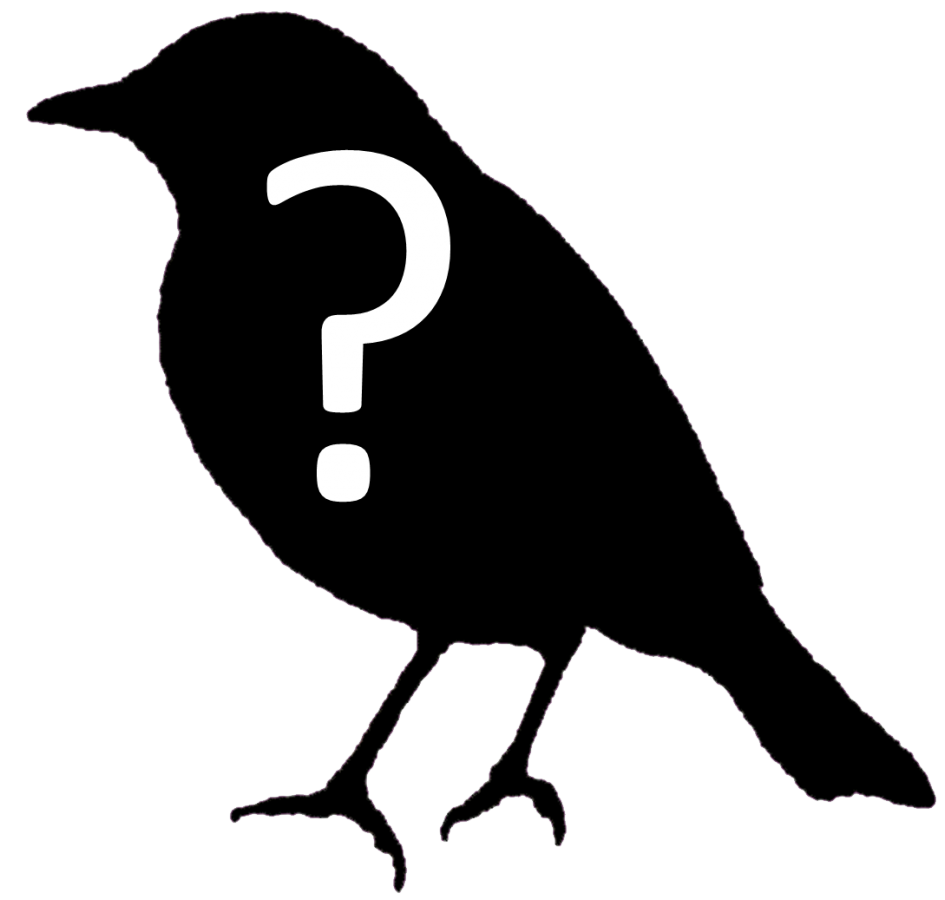
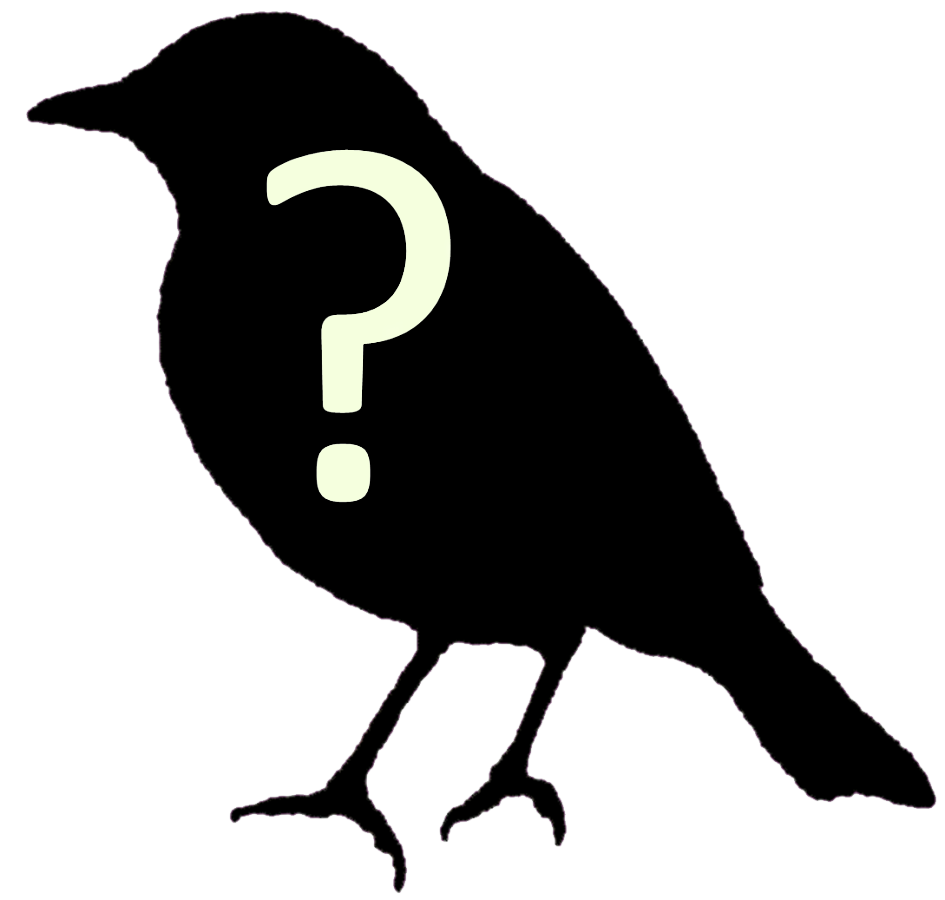
fix: code refactoring

Changed region(s): [[0.2762, 0.1556, 0.491, 0.4667], [0.3376, 0.4978, 0.3989, 0.56]]

diff --git a/src/components/card/card.scss b/src/components/card/card.scss
@@ -1,3 +1,9 @@
+$rhap_theme-color: #a1ad86 !default;
+$rhap_background-color: transparent !default;
+$rhap_bar-color: #a7a7a7 !default;
+$rhap_time-color: #ffffff !default;
+$rhap_font-family: inherit !default;
+
 .card__container {
   width: 100%;
   display: flex;
@@ -14,7 +20,7 @@
 .image__bird {
   width: 150px;
   height: 150px;
-  background-color: #e6e6e6;
+  background-color: #f5ffde;
   border-radius: 10px;
   display: block;
   margin: 10px auto;
@@ -32,8 +38,17 @@
 }
 .card-info__container {
   width: 100%;
-  margin-right: 40px;
+  margin-right: 30px;
 }
+.rhap_main-controls-button {
+  margin: 0 3px;
+  color: $rhap_theme-color;
+  font-size: 35px;
+  width: 35px;
+  height: 35px;
+  outline: none;
+}
+
 .rhap_container {
   background-color: transparent;
   box-shadow: none;
@@ -61,6 +76,9 @@
     margin-right: -41px;
   }
 }
+.rhap_progress-indicator {
+  background-color: #a1ad86;
+}
 .rhap_repeat-button {
   display: none;
 }
@@ -74,6 +92,12 @@
   @media (max-width: 500px) {
     flex-direction: column;
   }
+}
+.rhap_volume-button {
+  color: $rhap_theme-color;
+}
+.rhap_volume-indicator {
+  background-color: $rhap_theme-color;
 }
 .species-of-bird {
   color: white;

diff --git a/src/App.js b/src/App.js
@@ -19,7 +19,6 @@ function App() {
   const [isFinished, setIsFinished] = useState(false);
   const [hideAfterFinish, setHideAfterFinish] = useState(false);
   const [isMaxScore, setIsMaxScore] = useState(false);
-  const [addMargin, setAddMargin] = useState(false);
 
   const handleClickNextLevel = () => {
     if (isFinished) {
@@ -27,7 +26,6 @@ function App() {
         setLevel((prevState) => prevState + 1);
         setIsFinished(false);
         setClickedBird(null);
-        setAddMargin(false);
         setScore((prevState) => {
           if (attempts < 5) {
             return prevState + 5 - attempts;
@@ -61,7 +59,6 @@ function App() {
     setScore(0);
     setAttempts(0);
   };
-  console.log("app changed");
 
   useEffect(() => {
     const dataForCurrentLevel = birdsData.filter((el) => el.id === level);
@@ -69,10 +66,6 @@ function App() {
     setCurrentBird(dataForCurrentLevel[0]?.unic);
     console.log("correct answer", dataForCurrentLevel[0]?.name);
   }, [level]);
-
-  useEffect(() => {
-    if (clickedBird !== null) setAddMargin(true);
-  }, [clickedBird]);
 
   const dataForOptions = birdsData.filter(
     (el) => el.unic === clickedBird && el.id === level

diff --git a/src/components/list/menu.scss b/src/components/list/menu.scss
@@ -30,18 +30,21 @@
   font-size: 16px;
   color: #424737;
   @media (max-width: 850px) {
-    width: 20%;
+    width: 30.5%;
     padding: 8px;
   }
   @media (max-width: 680px) {
-    width: 25%;
+    width: 30%;
   }
   @media (max-width: 600px) {
     font-size: 14px;
-    width: 30%;
+    width: 45.5%;
     padding: 10px;
   }
-  @media (max-width: 435px) {
+  @media (max-width: 525px) {
     width: 100%;
   }
+}
+.nav__link-active {
+  background-color: #f5ffde;
 }

diff --git a/src/App.css b/src/App.css
@@ -29,7 +29,8 @@ body {
   outline: none;
 }
 .next_level__button-active {
-  background-color: #00bc8c;
+  background-color: #b9c799;
+  color: #424737;
 }
 .end_game__container {
   background-color: white;
